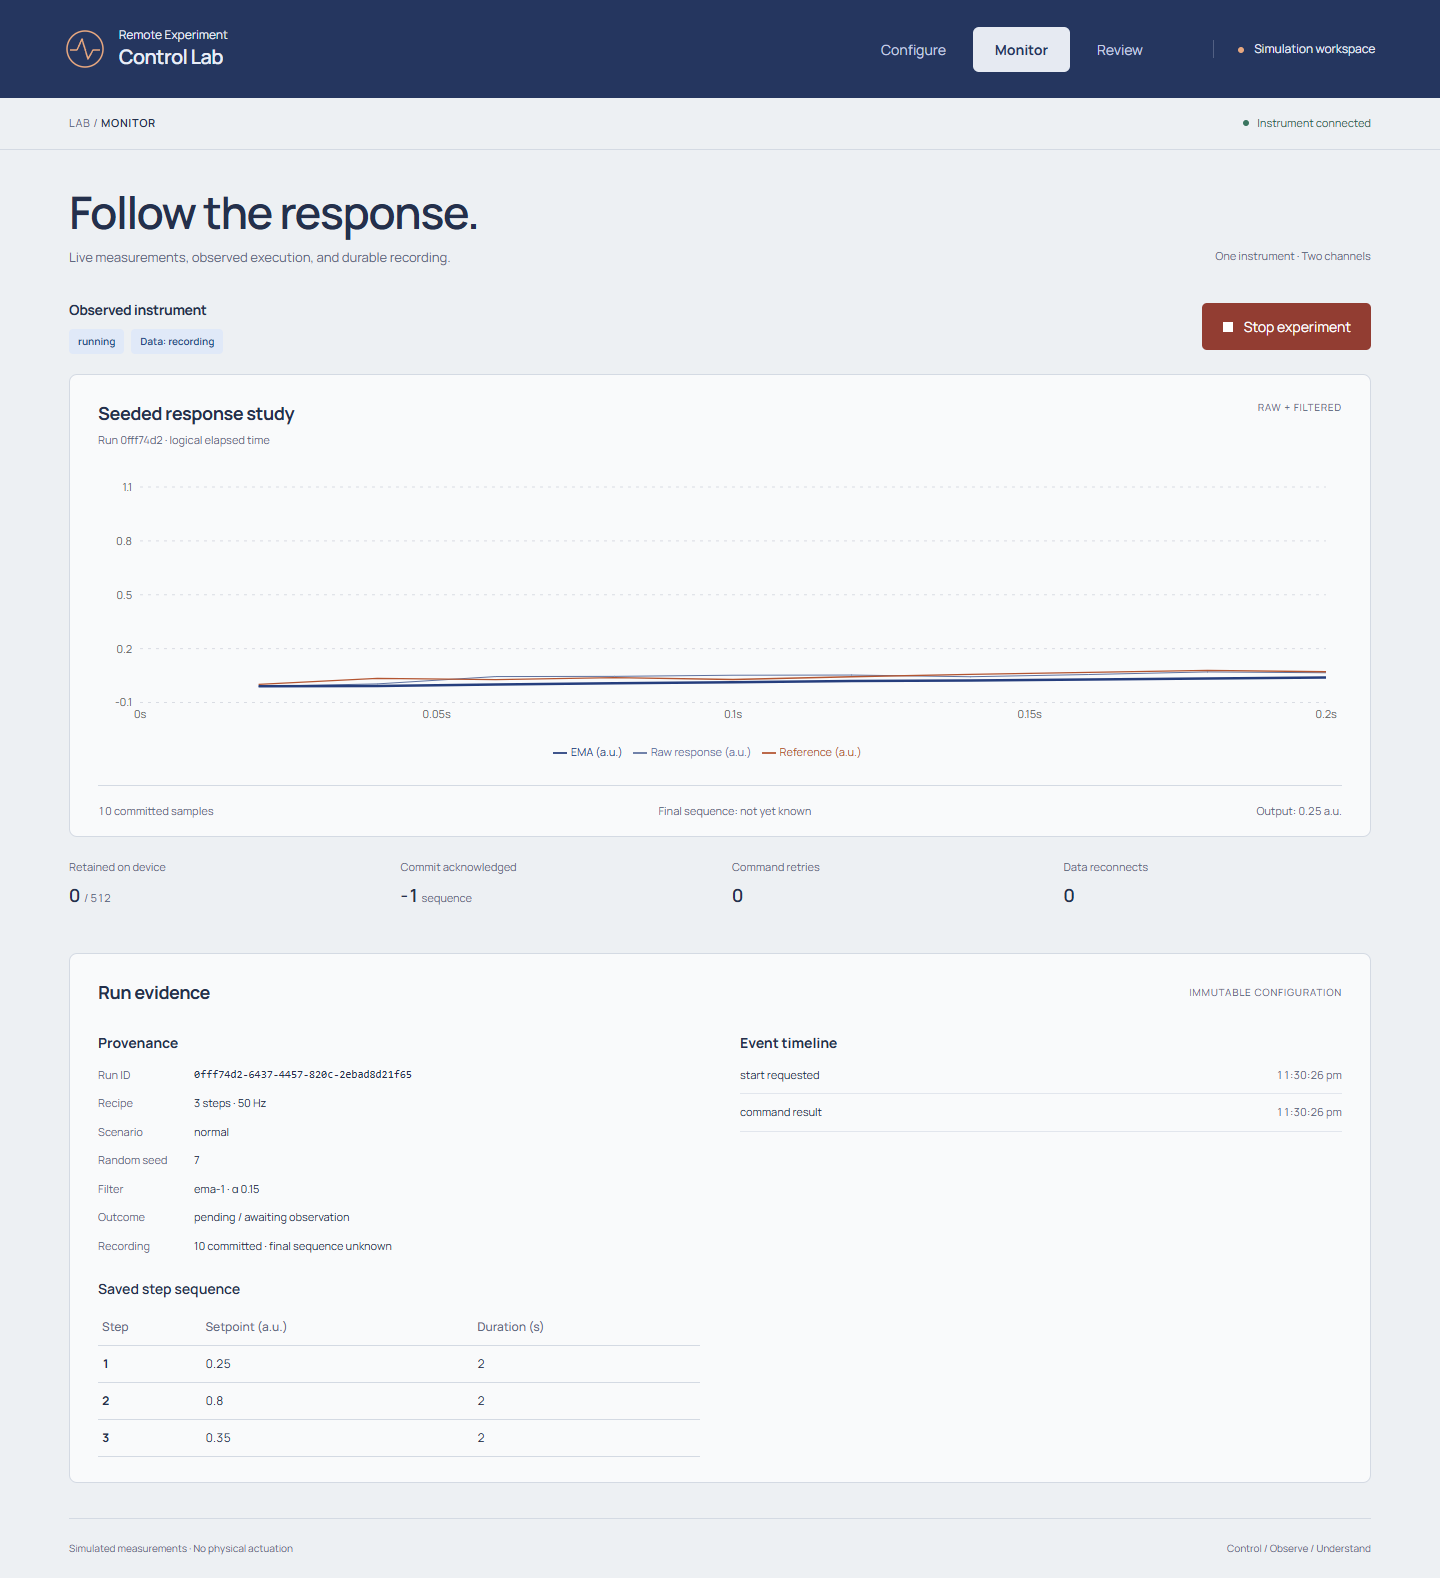
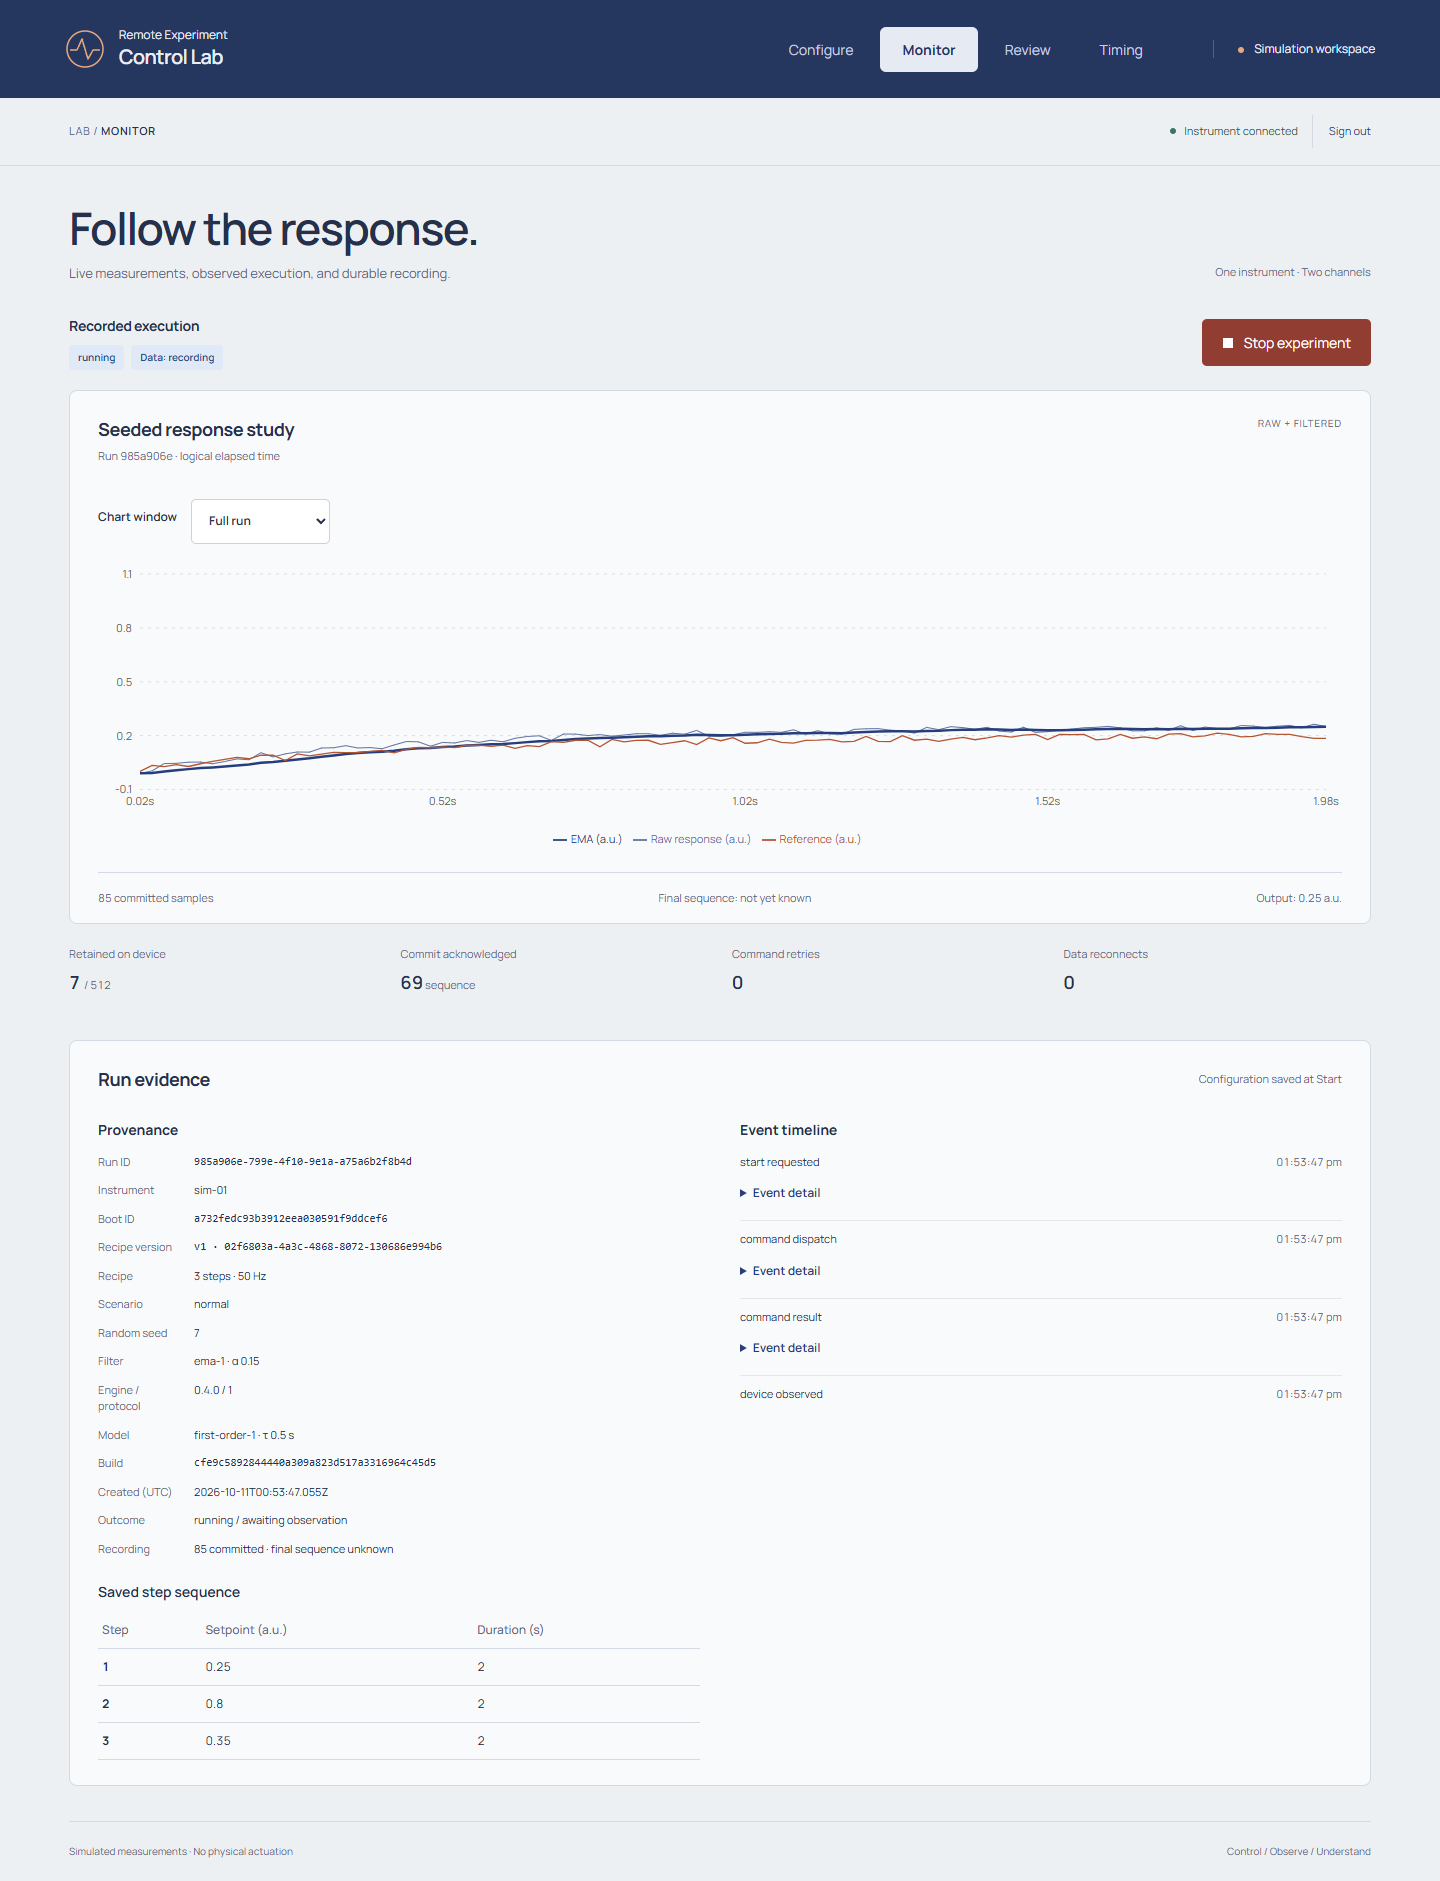
Finish Phase 4 and 5 responsive timing and verified handover

diff --git a/frontend/src/TimingWorkspace.tsx b/frontend/src/TimingWorkspace.tsx
@@ -87,6 +87,18 @@ export function TimingPlot({
     }),
   );
   const all = lines.flat();
+  const svgRef = useRef<SVGSVGElement>(null);
+  const [width, setWidth] = useState(750);
+  const hasPoints = all.length > 0;
+  useEffect(() => {
+    const element = svgRef.current;
+    if (!element) return;
+    const observer = new ResizeObserver(([entry]) =>
+      setWidth(Math.max(240, entry.contentRect.width)),
+    );
+    observer.observe(element);
+    return () => observer.disconnect();
+  }, [hasPoints]);
   if (!all.length)
     return (
       <div className="empty-state">
@@ -97,12 +109,14 @@ export function TimingPlot({
     );
   const lo = Math.min(0, ...all.map((p) => p.x)),
     hi = Math.max(1, ...all.map((p) => p.x));
-  const x = (v: number) => 48 + ((v - lo) / (hi - lo)) * 670;
+  const plotWidth = width - 72;
+  const x = (v: number) => 48 + ((v - lo) / (hi - lo)) * plotWidth;
   const y = (v: number) => 224 - v * 190;
   return (
     <figure className="timing-figure">
       <svg
-        viewBox="0 0 750 278"
+        ref={svgRef}
+        viewBox={`0 0 ${width} 278`}
         role="img"
         aria-label={`Response against ${basis === "source_utc" ? "original device time" : basis === "received_utc" ? "receipt time" : "estimated aligned time"}; sim-01 solid blue, sim-02 dashed copper`}
       >
@@ -110,7 +124,7 @@ export function TimingPlot({
           <g key={v}>
             <line
               x1="48"
-              x2="718"
+              x2={width - 24}
               y1={y(v)}
               y2={y(v)}
               className="timing-gridline"
@@ -121,7 +135,12 @@ export function TimingPlot({
           </g>
         ))}
         {[0, 1, 2, 3, 4].map((i) => (
-          <text key={i} x={48 + (i * 670) / 4} y="248" textAnchor="middle">
+          <text
+            key={i}
+            x={48 + (i * plotWidth) / 4}
+            y="248"
+            textAnchor="middle"
+          >
             {(lo + ((hi - lo) * i) / 4).toFixed(1)}
           </text>
         ))}
@@ -143,7 +162,7 @@ export function TimingPlot({
         <text x="48" y="18">
           Response (a.u.)
         </text>
-        <text x="382" y="274" textAnchor="middle">
+        <text x={48 + plotWidth / 2} y="274" textAnchor="middle">
           Seconds from comparison request (UTC)
         </text>
       </svg>

diff --git a/frontend/e2e/timing.spec.ts b/frontend/e2e/timing.spec.ts
@@ -71,7 +71,20 @@ test("two real clocks, saved evidence, three time bases and responsive compariso
         () => document.documentElement.scrollWidth <= window.innerWidth,
       ),
     ).toBe(true);
-    if (process.env.UPDATE_PHASE45_SCREENSHOTS)
+    await expect
+      .poll(() =>
+        page
+          .locator(".timing-figure svg text")
+          .first()
+          .evaluate((el) => {
+            const svg = el.closest("svg")!;
+            return (
+              parseFloat(getComputedStyle(el).fontSize) * svg.getScreenCTM()!.a
+            );
+          }),
+      )
+      .toBeGreaterThanOrEqual(11);
+    if (process.env.UPDATE_PHASE45_SCREENSHOTS) {
       await page.screenshot({
         path: fileURLToPath(
           new URL(
@@ -81,6 +94,16 @@ test("two real clocks, saved evidence, three time bases and responsive compariso
         ),
         fullPage: true,
       });
+      if (width === 390)
+        await page.locator(".timing-chart").screenshot({
+          path: fileURLToPath(
+            new URL(
+              "../../.impeccable/review/phase45-timing-mobile-chart.png",
+              import.meta.url,
+            ),
+          ),
+        });
+    }
   }
   await page.reload();
   await expect(

diff --git a/frontend/e2e/lab.spec.ts b/frontend/e2e/lab.spec.ts
@@ -100,6 +100,12 @@ test("configure -> real live samples -> refresh -> completion -> saved review, t
     });
   await page.goto("/#configure");
   await expect(page.getByLabel("Recipe name", { exact: true })).toBeVisible();
+  await expect(
+    page.getByRole("button", { name: /Start experiment/ }),
+  ).toBeEnabled();
+  await expect(
+    page.getByRole("option", { name: "Loading recipes…", exact: true }),
+  ).toHaveCount(0);
   await expect
     .poll(() =>
       page.evaluate(

diff --git a/docs/PROGRESS.md b/docs/PROGRESS.md
@@ -1,5 +1,55 @@
 # Progress
 
+## Phases 4 and 5 — implementation and handover, 2026-10-11 Pacific/Auckland
+
+The operator explicitly authorized completing both phases together, then waiting
+for their next instruction. Earlier checkpoint pauses below are historical.
+Work branch: `codex/phase-4-5`; existing approval covers public `main` and the same
+free Render/Neon service. No additional hosting resource is required.
+
+Implemented two independent C++ engines, bounded simulated clock settings,
+persisted independent Start/Stop outcomes, append-only round-trip probes, measured
+offset/drift with insufficient-evidence handling, original/receipt/aligned views,
+saved comparison history and full timing JSON. Added final decisions, timing,
+testing, troubleshooting and walkthrough documents.
+
+The first integration run proved real two-device acquisition and partial-start
+compensation; its browser test found a selector accessible-name mismatch, fixed
+in `cfe9c5892844440a309a823d517a3316964c45d5`. Full rerun:
+https://github.com/ammaar134/Remote-Expriment-Control-Lab/actions/runs/38099407609.
+That complete Linux run passed: C++/sanitizers/TCP, 41 Python tests, nine frontend
+unit tests, eight browser tests, real two-engine timing/failure checks and the
+authenticated hosted-image restart/ownership checks. Commit `cfe9c58` deployed
+successfully as `dep-db5dr2d9fdbs73ch2gv0` at 2026-10-11T00:53:08Z. Five live Edge
+workflows passed; the local-only fault test was correctly skipped on the public
+host. The two sign-in regressions also passed.
+
+The final interface delta keeps Timing chart labels readable at 1440, 1270 and
+390px and adds a rendered-size browser assertion. The two bounded visual passes
+and independent Impeccable finish review are complete: `disposition: ship`, with
+no material fixes outstanding. The documenter reconciled the product and surface
+brief while preserving both identity files. Captures and provenance are recorded
+in SCREENSHOTS.md; historical concept/approval evidence is not newly asserted.
+
+Final-commit CI and the published-build browser check follow this handover commit.
+Consult its matching GitHub Actions run and Render deploy record for release
+status; `.local/phase45-release.json` stores the local verification receipt without
+credentials. All five planned implementation phases are delivered. The operator
+asked to choose what comes next, so the walkthrough is available in WALKTHROUGH.md
+without imposing a new discussion gate or claiming interview readiness.
+
+Migration 003 preserved eight legacy test-branch runs, 3,516 samples and snapshot
+digest `70feac0713ba5c8bf93cfd7e19767e52`. Production baseline before release:
+11 runs, 3,995 samples, zero unfinished, snapshot digest
+`3f4722480fdbcf7056462c3281beb6cd` at 2026-10-11T00:40:25Z.
+After deployment and browser workflows, all original runs, samples and that digest
+were unchanged. The database held 18 runs / 5,545 samples / zero unfinished runs
+and two comparisons / zero active comparisons; application error logs were empty.
+Native Python/type/format checks, frontend build/unit tests, Edge sign-in regressions,
+npm audit, Python production-lock audit and full-history Gitleaks passed. Docker
+Desktop remains unavailable locally; the clean Linux CI runner supplies complete
+C++/container validation. No destructive Docker repair was performed.
+
 ## Phase 3 implementation checkpoint — 2026-10-11, Pacific/Auckland
 
 The operator confirmed the sign-in correction works and authorized Phase 3.

diff --git a/docs/DESIGN_BRIEF.md b/docs/DESIGN_BRIEF.md
@@ -38,3 +38,35 @@ review, the verdict, DESIGN.md, and every shipping raster carrying its provenanc
   was fetched or copied. InstrumentSculpture is original projected SVG geometry.
 - Manrope variable font: Google Fonts repository, SIL OFL, distributed with
   frontend/public/fonts/OFL-Manrope.txt. No third-party font requests at runtime.
+
+## Phase 4/5 implementation delta
+
+Timing is an ordinary extension of the established console. It joins Configure,
+Monitor and Review in the existing shell, with two equal device-setting groups,
+saved comparisons, paired clock-evidence tables and a shared response plot.
+Injected settings, measured estimates, independent Start outcomes and each run's
+execution/recording state remain separate. The three time views preserve original
+evidence and explicitly limit derived alignment to the measured probe window.
+
+The extension reuses Manrope, mineral surfaces, blue controls, copper emphasis,
+flat bordered panels and tabular measurements. Timing's paired groups stack at
+800px; its panel padding changes from 24px to 18px. The original SVG plot uses
+solid blue and dashed copper traces with text keys, and a responsive coordinate
+width keeps labels at 12px at the reviewed 1440px, 1270px and 390px viewports.
+These are surface adaptations, not replacements for the incumbent identity.
+The illustrative wireframe remains in Configure; no application raster was added.
+
+The Phase 5 handover records setup, architecture, failure reasoning, decisions
+and the demonstration path. The full finish review returned `disposition: ship`
+in `.impeccable/review/phase45-review.md`. Screenshot provenance and the distinction
+between deployed and candidate renders are recorded in `docs/SCREENSHOTS.md`.
+The candidate captures use locally built production assets with the authenticated
+live API and persisted observations. Exact-commit CI and the published candidate
+check were still pending at this documentation pass; release status belongs in
+`docs/PROGRESS.md`.
+
+`DESIGN.md` and `.impeccable/design.json` remain byte-for-byte unchanged. Their
+older three-view navigation, source inventory and history-only mobile description
+remain historical system-record drift, not rules for Timing to inherit. Seed
+`b85cfff1` is inherited; this extension establishes no new concept roll, approved
+comp or quality-bar evidence.

diff --git a/docs/SCREENSHOTS.md b/docs/SCREENSHOTS.md
@@ -1,0 +1,31 @@
+# Screenshot evidence
+
+Captured 2026-10-11 (Pacific/Auckland) with Playwright/Edge. These are actual
+application renders with synthetic C++ observations stored in the hosted Neon
+database. They are not generated mockups; no credentials appear in the captures.
+
+- Configure desktop, Monitor, Review desktop/mobile: live release `cfe9c58`,
+  captured through the real acquisition/refresh/review/Stop browser workflow.
+- Timing desktop/mobile: final candidate production frontend against the same
+  authenticated live API and completed real 26-second comparison. Current draft
+  settings show 30 seconds; saved evidence correctly shows its 26-second window.
+  Measurements are from the selected recording, while device state in the setup
+  region is the current state after a later operator Stop.
+- Configure mobile and Replay: final candidate production frontend against the
+  same saved cloud data. Configure was recaptured after loading settled. Replay
+  intentionally shows its paused zero-time state, before the first saved sample.
+
+For the candidate captures, Playwright served locally built static assets on the
+live origin while all API requests used the real authenticated cloud service.
+This validated the corrected responsive timing graph before publication; it did
+not modify saved data. Final release checks confirm the published build separately.
+
+Widths: desktop 1440px, Timing additionally 1270px, mobile 390px. Full-page captures
+start at the document top. Timing uses a responsive SVG coordinate width so axis
+labels retain a measured 12px size at each viewport instead of scaling into tiny
+text. The 1270px and mobile chart-detail review evidence remain in ignored
+`.impeccable/review/`; documented representative renders are in `screenshots/`.
+
+Impeccable's inherited identity contract and third-party reference provenance are
+in DESIGN_BRIEF.md. The app's only supplied font is self-hosted Manrope; the graph,
+icons and wireframe are original code. No new raster asset is shipped in the app.

diff --git a/PRODUCT.md b/PRODUCT.md
@@ -19,12 +19,13 @@ immutable configuration and actual measurements.
 
 ## Operating Context
 
-The working Configure/Monitor/Review console is the first screen. No introductory
+The working Configure/Monitor/Review console is the first screen; Timing extends
+it with a two-device comparison. No introductory
 showcase is needed. Local Docker and authenticated free cloud hosting are supported.
 
 ## Capabilities and Constraints
 
-One simulated instrument; bounded sample rate, duration and retention. Execution,
+Two independent simulated instruments; bounded sample rate, duration and retention. Execution,
 connection and recording completeness are separate facts. No real hardware or
 hard real-time guarantees. Phase 2 recovery and failure demonstrations remain
 available.
@@ -35,8 +36,15 @@ and companion metadata downloads, and saved-data replay with playback controls.
 Replay reads recorded evidence without issuing instrument commands or
 reconstructing missing measurements; the API and database must remain reachable.
 
-Phase 4 remains the educational two-device clock-offset/drift demonstration.
-Phase 5 remains final verification and handover. Neither is implemented yet.
+Timing reuses the C++ engine in two processes, with configurable simulated clock
+offset and drift. Independent Start results, probe evidence, original/receipt
+timestamps and derived alignment remain inspectable. Injected settings and
+measured estimates are separate; insufficient measurements are labelled. The
+comparison is educational and does not imply simultaneous hardware execution.
+
+The Phase 5 handover documents setup, architecture, failure reasoning, consequential
+decisions and a five-minute demonstration. PROGRESS.md records verification and
+release status; the operator chooses the next discussion after these two phases.
 
 ## Brand Commitments
 

diff --git a/README.md b/README.md
@@ -6,7 +6,10 @@ measurements, confirm Stop, and inspect the immutable saved run.
 
 ![Configure a simulated experiment](docs/screenshots/configure.png)
 
-Phase 3 capture, with the simulator deliberately offline during saved-review verification.
+Real hosted synthetic experiment, captured during the Phase 4/5 verification.
+See [screenshot provenance](docs/SCREENSHOTS.md) and the
+[desktop](docs/screenshots/timing.png) / [mobile](docs/screenshots/timing-mobile.png)
+timing comparison.
 
 ## Try the live app
 
@@ -27,7 +30,11 @@ evidence after a changed boot; it never automatically reruns an experiment.
 Requires Docker with Linux containers and Compose, plus Python 3.12+ for the small
 configuration helper. On Windows, use `py` in place of `python3`.
 
+From a clean checkout:
+
 ```sh
+git clone https://github.com/ammaar134/Remote-Expriment-Control-Lab.git
+cd Remote-Expriment-Control-Lab
 python3 scripts/setup.py
 docker compose up -d --build --wait
 ```
@@ -37,8 +44,8 @@ take several minutes. Start with the default 30-second recipe, or shorten each s
 to two seconds for a quick demonstration.
 
 `setup.py` creates an ignored `.env` with a random database password and preserves
-existing configuration. UI/API port 8000 binds only to loopback; PostgreSQL and both
-instrument ports stay on the private Compose network. This is explicitly an
+existing configuration. UI/API port 8000 binds only to loopback; PostgreSQL and all
+four instrument ports stay on the private Compose network. This is explicitly an
 unauthenticated local demo. For an authenticated cloud instance, see
 [Render + Neon deployment](docs/HOSTING.md). A cloud deployment runs independently
 of the development computer and has its own saved history.

diff --git a/docs/DEPENDENCIES.md b/docs/DEPENDENCIES.md
@@ -1,5 +1,13 @@
 # Dependencies and reproducibility
 
+Phase 4 adds no application dependency. The timestamp plot is original SVG; both
+devices run the same pinned C++ build. Final verification runs npm audit and
+pip-audit 2.10.1 against the pinned Python production lock, with full-history
+Gitleaks in CI. These check known package advisories and secret patterns; they
+are not a penetration test, container-OS vulnerability certification or proof of
+the absence of defects. Existing test-library deprecation warnings do not affect
+the production runtime. Exact release evidence is recorded in PROGRESS.md.
+
 Direct versions are pinned in frontend/package.json and backend/requirements.in.
 npm's lockfile pins the frontend graph. Production Python dependencies also have
 SHA-256 hashes; the development lock pins the full test/tool graph without hashes.
